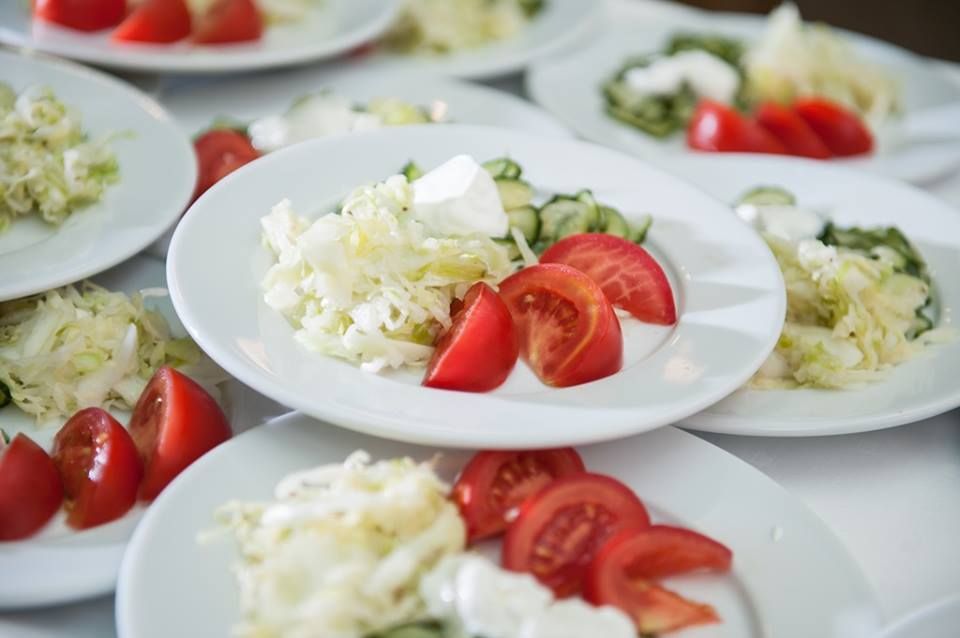
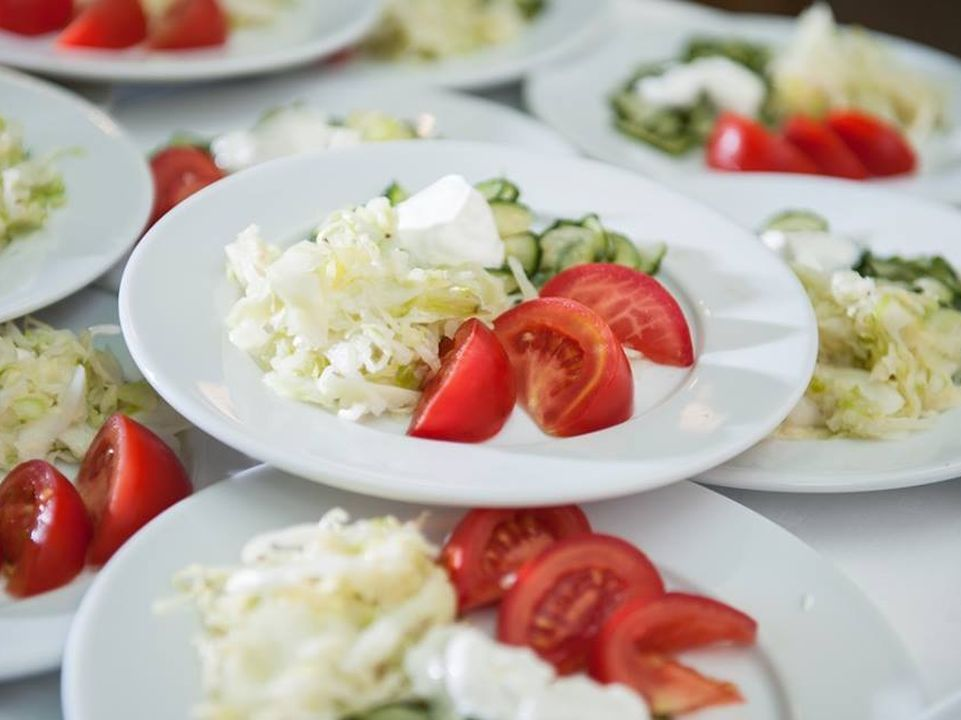
design, carousels imgs resolution

diff --git a/html/services.html b/html/services.html
@@ -15,14 +15,17 @@
   <main class="container">
     <!-- Row -->
     <div class="row mt-3">
+
       <!-- Tab buttons -->
       <ul
         id="form-tab"
         class="nav nav-tabs nav-pills justify-content-center mt-3"
         role="tablist"
       >
+
         <!-- tab1 -->
         <li class="nav-item nav-item-pills" role="presentation">
+
           <!-- Button -->
           <button
             id="tab-1-tab"
@@ -40,6 +43,7 @@
 
         <!-- tab2 -->
         <li class="nav-item nav-item-pills" role="presentation">
+
           <!-- Button -->
           <button
             id="tab-2-tab"
@@ -71,17 +75,18 @@
         >
           <div class="p-52 mb-4 bg-light rounded-3">
             <div class="container-fluid py-5">
-              <h2 class="display-5 letter-capitalize fw-bold">
+              <h2 class="display-3 letter-capitalize fw-bold">
                 {{'basic_menu' | translate:lang.data}}
               </h2>
-              <p class="fs-4">
+              <p class="fs-4 m-2">
                 {{'basic_menu_description' | translate:lang.data}}
               </p>
             </div>
           </div>
 
-          <div class="row justify-content-center ">
-            <div class="col-12 col-md-8 col-lg-6 mx-auto">
+          <div class="row content_iframe">
+            <div>
+
               <!-- carousel -->
               <div class="carousel-container overflow-hidden">
                 <div
@@ -95,11 +100,12 @@
                       ng-class="{active: $index===0}"
                       ng-repeat="image in images track by $index"
                     >
+                    <!-- Resolution 960x720 -->
                       <img
                         ng-src="{{image}}"
                         class="d-block w-100"
                         alt="{{image}}"
-                        style="max-height: 300px; width: 100%"
+                       
                       />
                     </div>
                   </div>
@@ -140,7 +146,7 @@
               ng-class="{'bg-light': $index % 2 === 1, 'evens': $index % 2 === 0}"
             >
               <div class="card w-75 mx-auto">
-                <div class="card-header fw-bold letter-capitalize">
+                <div class="card-header fw-bold letter-capitalize fluss_head_col">
                   {{ menu.menu_name | translate:lang.data}}
                 </div>
                 <ul class="list-group list-group-flush">
@@ -176,7 +182,7 @@
                         </h2>
                         <div
                           id="collapse{{$parent.$index}}_{{$index}}"
-                          class="accordion-collapse collapse"
+                          class="accordion-collapse collapse fluss_span"
                           ng-class="{show: $index===-1}"
                           aria-labelledby="heading{{$parent.$index}}_{{$index}}"
                           data-bs-parent="#accordionMenu{{$parent.$index}}_{{$index}}"
@@ -324,7 +330,8 @@
                         ng-disabled="reservationForm.event.$invalid"
                         required
                       >
-                        <option value="" class="text-capitalize">
+                        <option value="" 
+                                class="text-capitalize">
                           -- {{'select' | translate:lang.data}} --
                         </option>
                       </select>

diff --git a/html/home.html b/html/home.html
@@ -54,6 +54,7 @@
             class="carousel-item" 
             ng-class= "{active: $index===0}" 
             ng-repeat="image in images track by $index">
+            <!-- Resolution 960x720 -->
             <img ng-src="{{image}}" 
                 class="d-block w-100" 
                 alt="{{image}}" 

diff --git a/css/app.css b/css/app.css
@@ -83,6 +83,14 @@ option[disabled]{
   flex-flow: column;
   border: 1px;
 }
+.fluss_head_col
+{
+  background-color: #377dabb1;
+}
+.fluss_span
+{
+  background-color: rgba(112, 152, 181, 0.678);
+}
 
 
 
